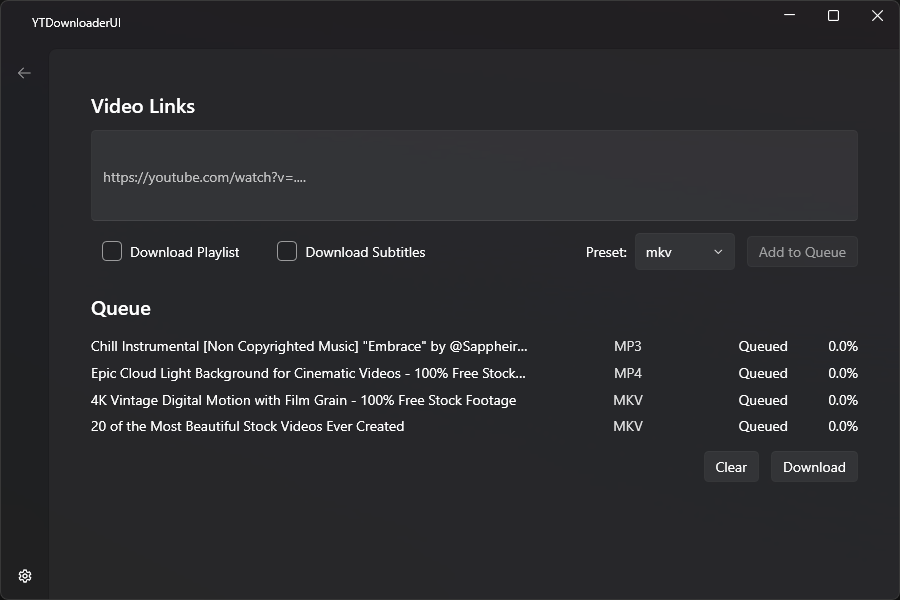
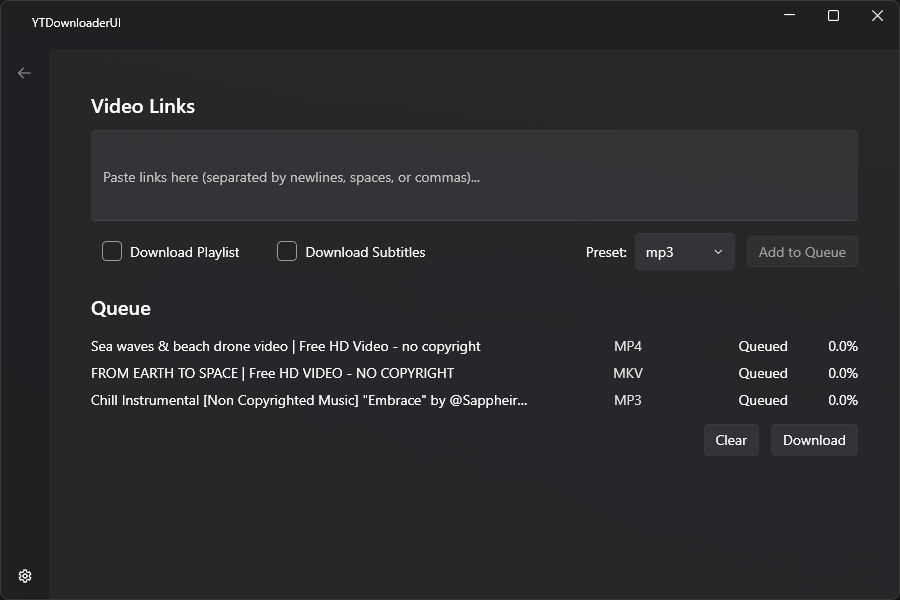
fix: update placeholder text and bump version to 2.0.1

diff --git a/src/YTDownloaderUI/Views/Pages/HomePage.xaml b/src/YTDownloaderUI/Views/Pages/HomePage.xaml
@@ -36,7 +36,7 @@
                 MinLines="4"
                 MaxLines="10"
                 TextChanged="UrlList_TextChanged"
-                PlaceholderText="https://youtube.com/watch?v=...."
+                PlaceholderText="Paste links here (separated by newlines, spaces, or commas)..."
             />
 
             <Grid x:Name="FFmpegWarning" Visibility="Collapsed" Margin="0,12,0,0">
